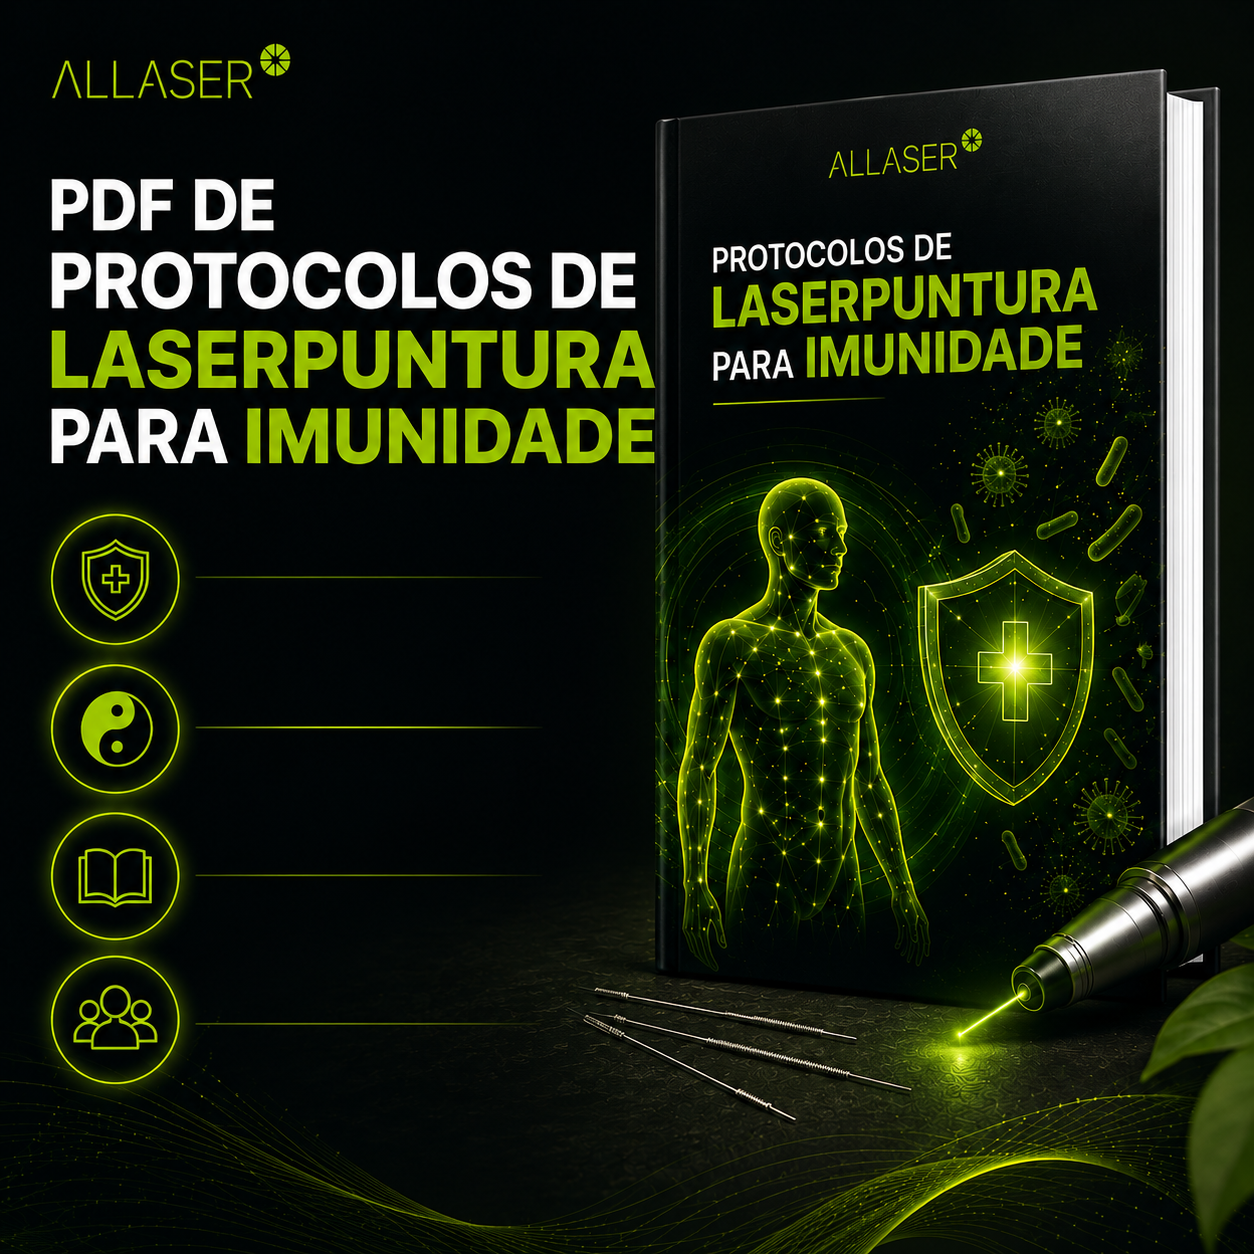
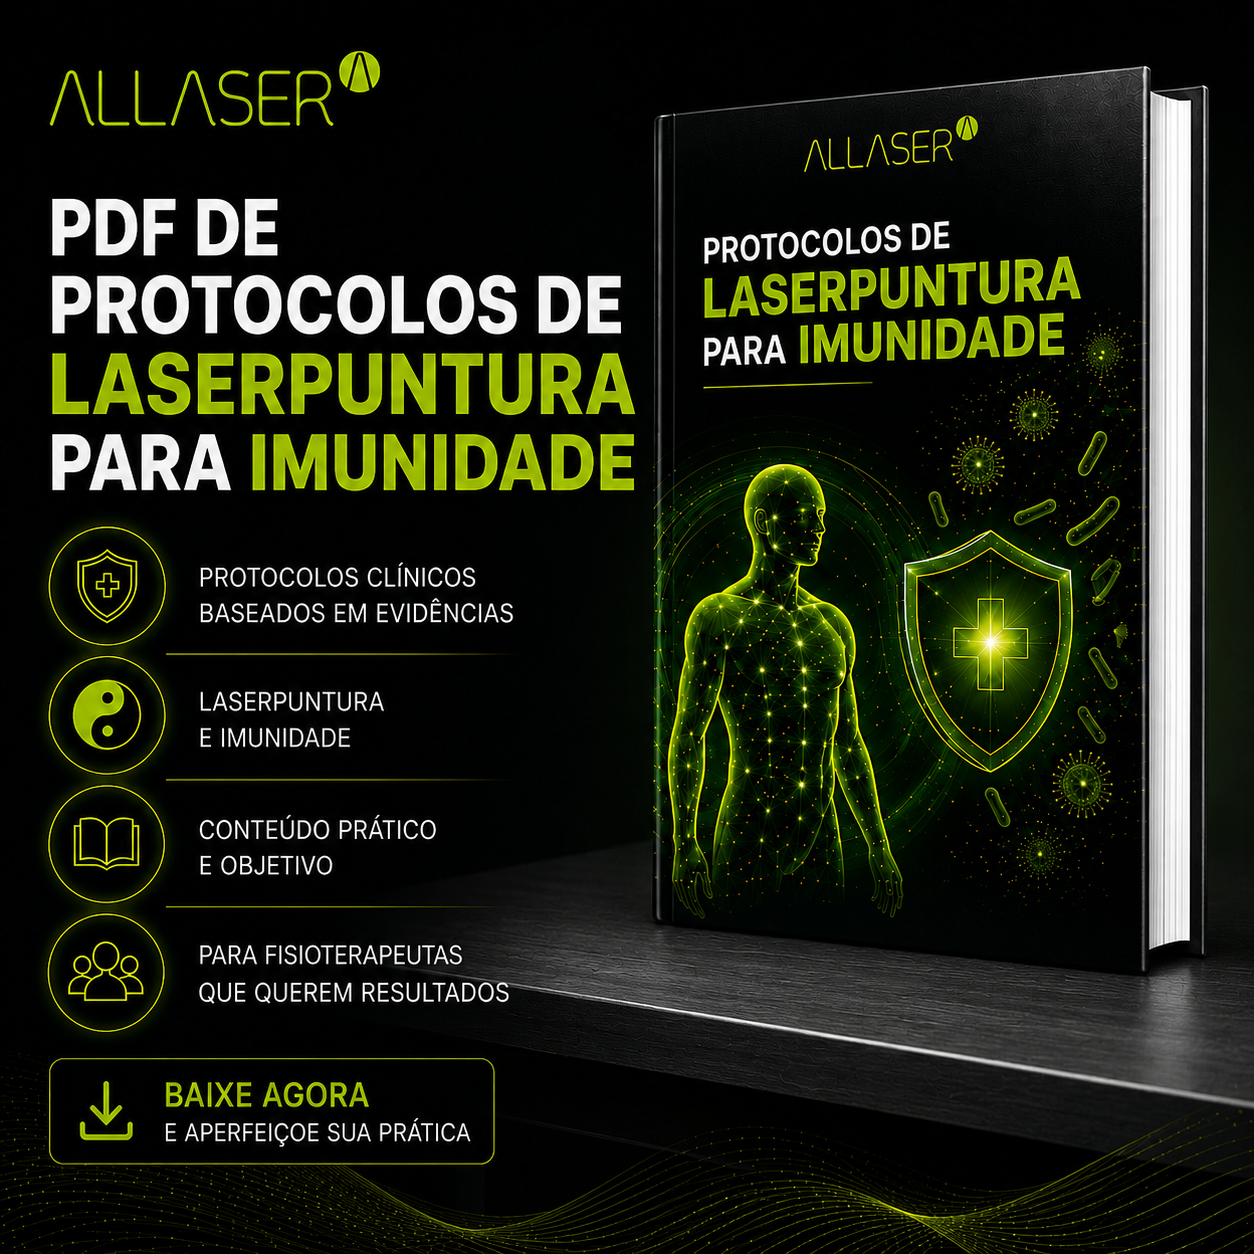
cursos: card inteiro clicável + 2 novas imagens
- remove botão individual dos cards; card inteiro vira área clicável
- LP → abre em nova aba; sem LP → abre modal de lead
- adiciona cursor: pointer e foco acessível (focus-visible) no card
- suporte a teclado (Enter/Space) nos cards
- adiciona imagens: pdf-laserpuntura-imunidade, aula-laserpuntura-imunidade

diff --git a/cursos.html b/cursos.html
@@ -272,6 +272,11 @@
   height: 100%;
   transition: transform 0.22s var(--ease), box-shadow 0.22s var(--ease), border-color 0.22s;
   position: relative;
+  cursor: pointer;
+}
+.course-card:focus-visible {
+  outline: 2px solid var(--lime-dark);
+  outline-offset: 2px;
 }
 .course-card::after {
   content: '';
@@ -1285,9 +1290,9 @@
       + '<span>' + esc(c.categoria) + '</span></div></div>';
   }
 
-  function btnDetalhes(c) {
-    if (c.lp) return '<a href="' + esc(c.lp) + '" target="_blank" rel="noopener" class="btn-ver-detalhes">Saiba mais →</a>';
-    return '<button class="btn-ver-detalhes" onclick="openLeadModal(\'' + esc(c.id) + '\')">Tenho interesse</button>';
+  function cardAction(c) {
+    if (c.lp) return 'onclick="window.open(\'' + esc(c.lp) + '\',\'_blank\',\'noopener\')"';
+    return 'onclick="openLeadModal(\'' + esc(c.id) + '\')"';
   }
 
   /* ── Card builders ───────────────────────────────── */
@@ -1295,10 +1300,10 @@
     var meta = '';
     if (c.cargaHoraria) meta += '<span class="course-meta-item"><svg width="12" height="12" viewBox="0 0 24 24" fill="none" stroke="currentColor" stroke-width="2"><circle cx="12" cy="12" r="10"/><path d="M12 6v6l4 2"/></svg>' + esc(c.cargaHoraria) + '</span>';
     if (c.inicio)       meta += '<span class="course-meta-item"><svg width="12" height="12" viewBox="0 0 24 24" fill="none" stroke="currentColor" stroke-width="2"><rect x="3" y="4" width="18" height="18" rx="2"/><path d="M16 2v4M8 2v4M3 10h18"/></svg>' + esc(c.inicio) + '</span>';
-    return '<article class="course-card">' + thumbHtml(c)
+    return '<article class="course-card" ' + cardAction(c) + ' role="button" tabindex="0">' + thumbHtml(c)
       + '<div class="course-body"><h3 class="course-name">' + esc(c.nome) + '</h3>'
       + '<p class="course-desc">' + esc(c.desc) + '</p>'
-      + '<div class="course-footer-row"><div class="course-meta">' + meta + '</div>' + btnDetalhes(c) + '</div>'
+      + (meta ? '<div class="course-footer-row"><div class="course-meta">' + meta + '</div></div>' : '')
       + '</div></article>';
   }
 
@@ -1549,6 +1554,14 @@
   document.addEventListener('keydown', function (e) { if (e.key === 'Escape') { closeDetail(); closeLeadModal(); } });
 
   initExplorer();
+
+  // Suporte a teclado nos cards
+  document.getElementById('cursosResults').addEventListener('keydown', function (e) {
+    if (e.key === 'Enter' || e.key === ' ') {
+      var card = e.target.closest('.course-card');
+      if (card) { e.preventDefault(); card.click(); }
+    }
+  });
 })();
 </script>
 